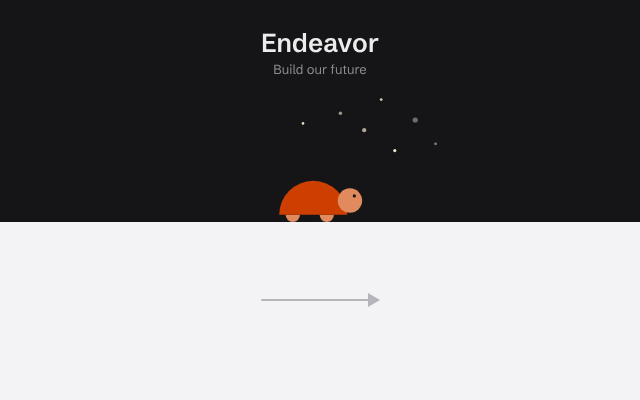
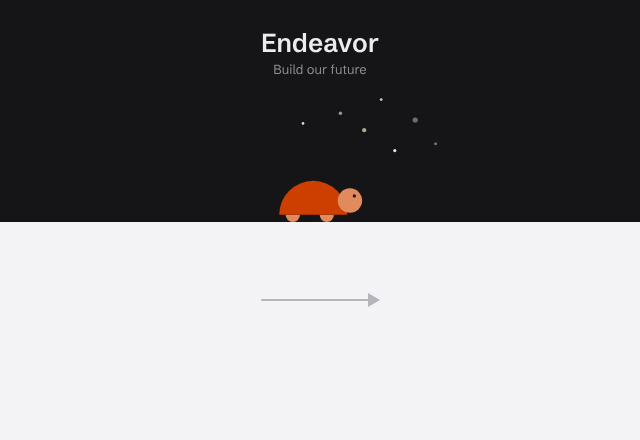
Mac disk image: a taller window, so the app and Applications aren't cut off
Finder counts the title bar in the window's height, so the 400-point window
showed less than the 400-point background and cut off the icons' labels.
The background is now 440 points tall and the window 480, which leaves room
for the title bar.

diff --git a/assets/dmg/build.py b/assets/dmg/build.py
@@ -1,7 +1,7 @@
 #!/usr/bin/env python3
 """Regenerate the Mac disk image's window background from the splash scene.
 
-Writes, next to this script, background.png (640 x 400) and background@2x.png;
+Writes, next to this script, background.png (640 x 440) and background@2x.png;
 dmgbuild combines them (settings.py, used by .github/workflows/nightly.yml).
 
 The top is the setup window's sky (src/splash.rs, src/turtle.rs): the turtle
@@ -21,7 +21,7 @@ import tempfile
 
 HERE = os.path.dirname(os.path.abspath(__file__))
 FONTS = os.path.join(HERE, "..", "..", "fonts")
-W, H = 640, 400
+W, H = 640, 440
 
 PAGE = """<!doctype html>
 <html><head><style>

diff --git a/assets/dmg/settings.py b/assets/dmg/settings.py
@@ -15,7 +15,9 @@ symlinks = {"Applications": "/Applications"}
 icon = "assets/icon/Endeavor.icns"
 background = "assets/dmg/background.png"
 
-window_rect = ((200, 120), (640, 400))
+# The window's height counts its title bar, so it is taller than the
+# background (640 x 440) to show all of it, labels under the icons included.
+window_rect = ((200, 120), (640, 480))
 default_view = "icon-view"
 show_status_bar = False
 show_tab_view = False
